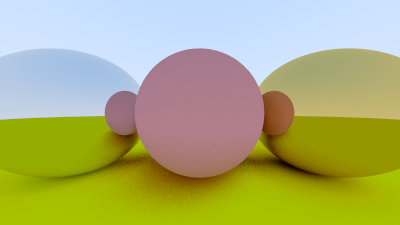
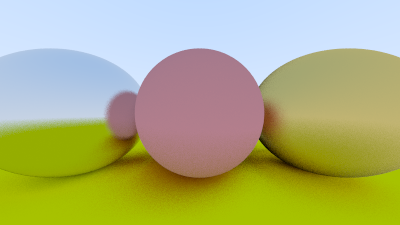
Chapter 9.6, fuzzy reflection

diff --git a/libs/utils/src/material.rs b/libs/utils/src/material.rs
@@ -30,12 +30,13 @@ impl Material for Lambertian {
 }
 
 pub struct Metal {
-    pub albedo : Color
+    pub albedo : Color,
+    pub fuzz : f64
 }
 
 impl Metal {
-    pub fn new(a : Color) -> Self {
-        Metal { albedo: a }
+    pub fn new(a : Color, f : f64) -> Self {
+        Metal { albedo: a, fuzz: if f < 1.0 { f } else  { 1.0 } }
     }
 }
 
@@ -43,7 +44,7 @@ impl Material for Metal {
     fn scatter(&self, r_in: &Ray, rec: &HitRecord, attenuation: &mut Color, scattered: &mut Ray) -> bool {
         let reflected = reflect(unit_vector(r_in.direction()), rec.normal);
 
-        *scattered = Ray::new(rec.p, reflected);
+        *scattered = Ray::new(rec.p, reflected + self.fuzz * random_in_unit_sphere());
         *attenuation = self.albedo;
 
         scattered.direction().dot(rec.normal) > 0.0

diff --git a/src/main.rs b/src/main.rs
@@ -20,8 +20,8 @@ fn main() -> Result<(), Error> {
 
     let material_ground = Rc::new(Lambertian::new(Color::new(0.8, 0.8, 0.0)));
     let material_center = Rc::new(Lambertian::new(Color::new(0.7, 0.3, 0.3)));
-    let material_left = Rc::new(Metal::new(Color::new(0.8, 0.8, 0.8)));
-    let material_right = Rc::new(Metal::new(Color::new(0.8, 0.6, 0.2)));
+    let material_left = Rc::new(Metal::new(Color::new(0.8, 0.8, 0.8), 0.3));
+    let material_right = Rc::new(Metal::new(Color::new(0.8, 0.6, 0.2), 1.0));
     
     world.add(Rc::new(Sphere::new(DVec3::new( 0.0, -100.5, -1.0), 100.0, Some(material_ground))));
     world.add(Rc::new(Sphere::new(DVec3::new( 0.0,    0.0, -1.0),   0.5, Some(material_center))));
